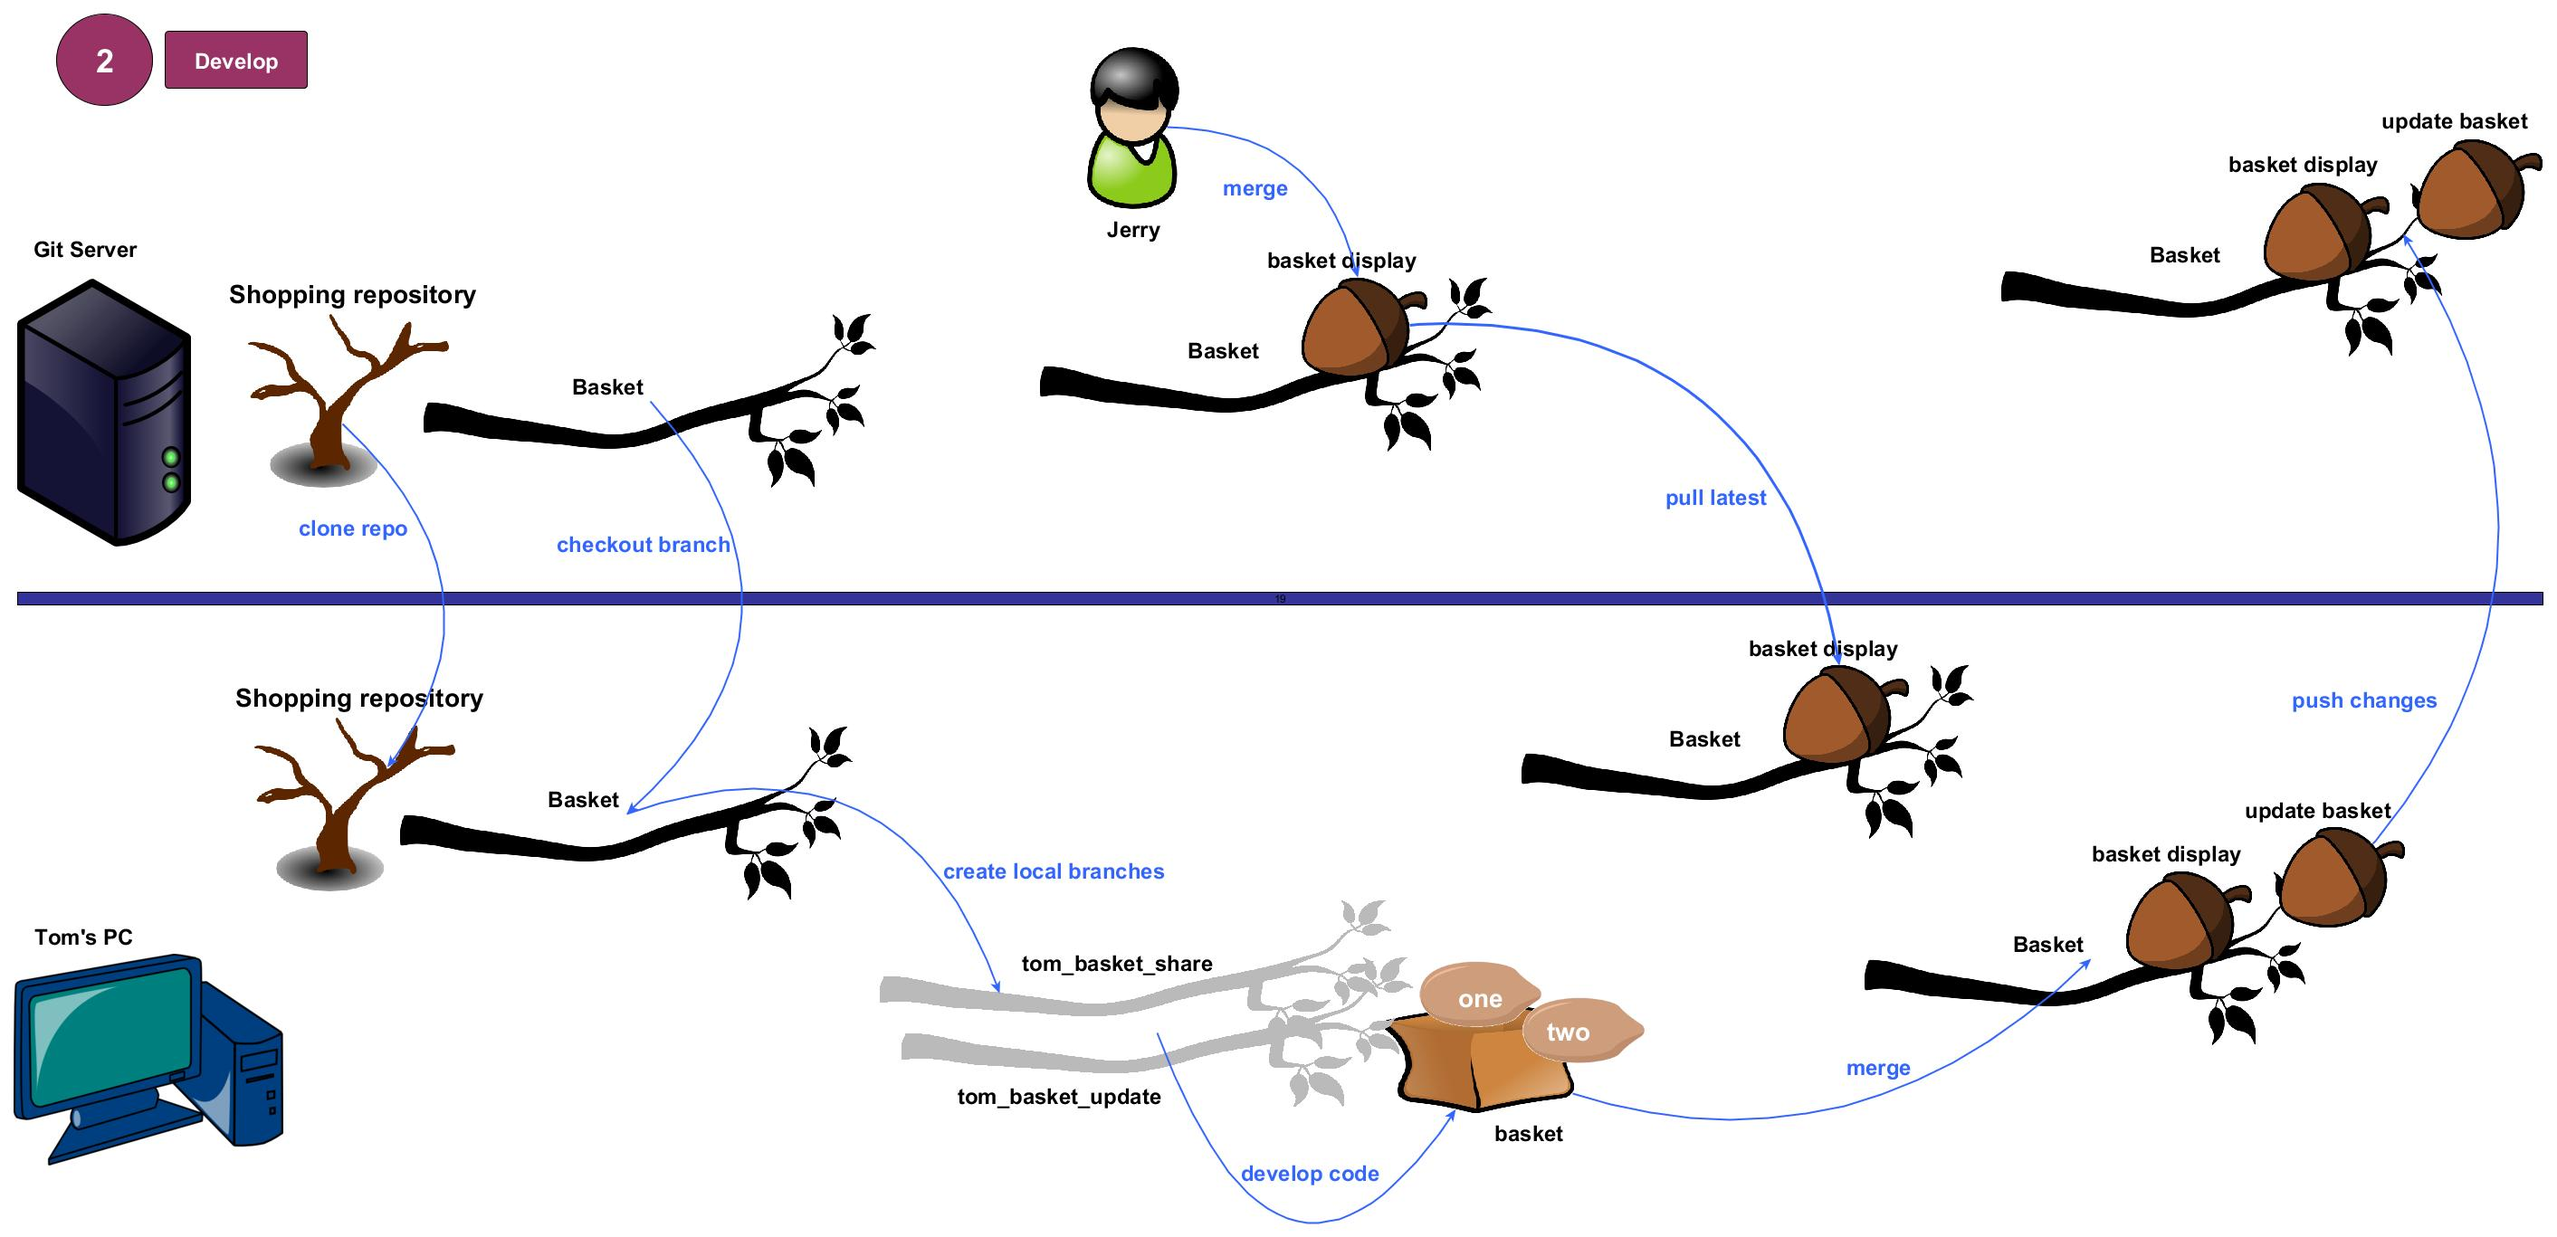
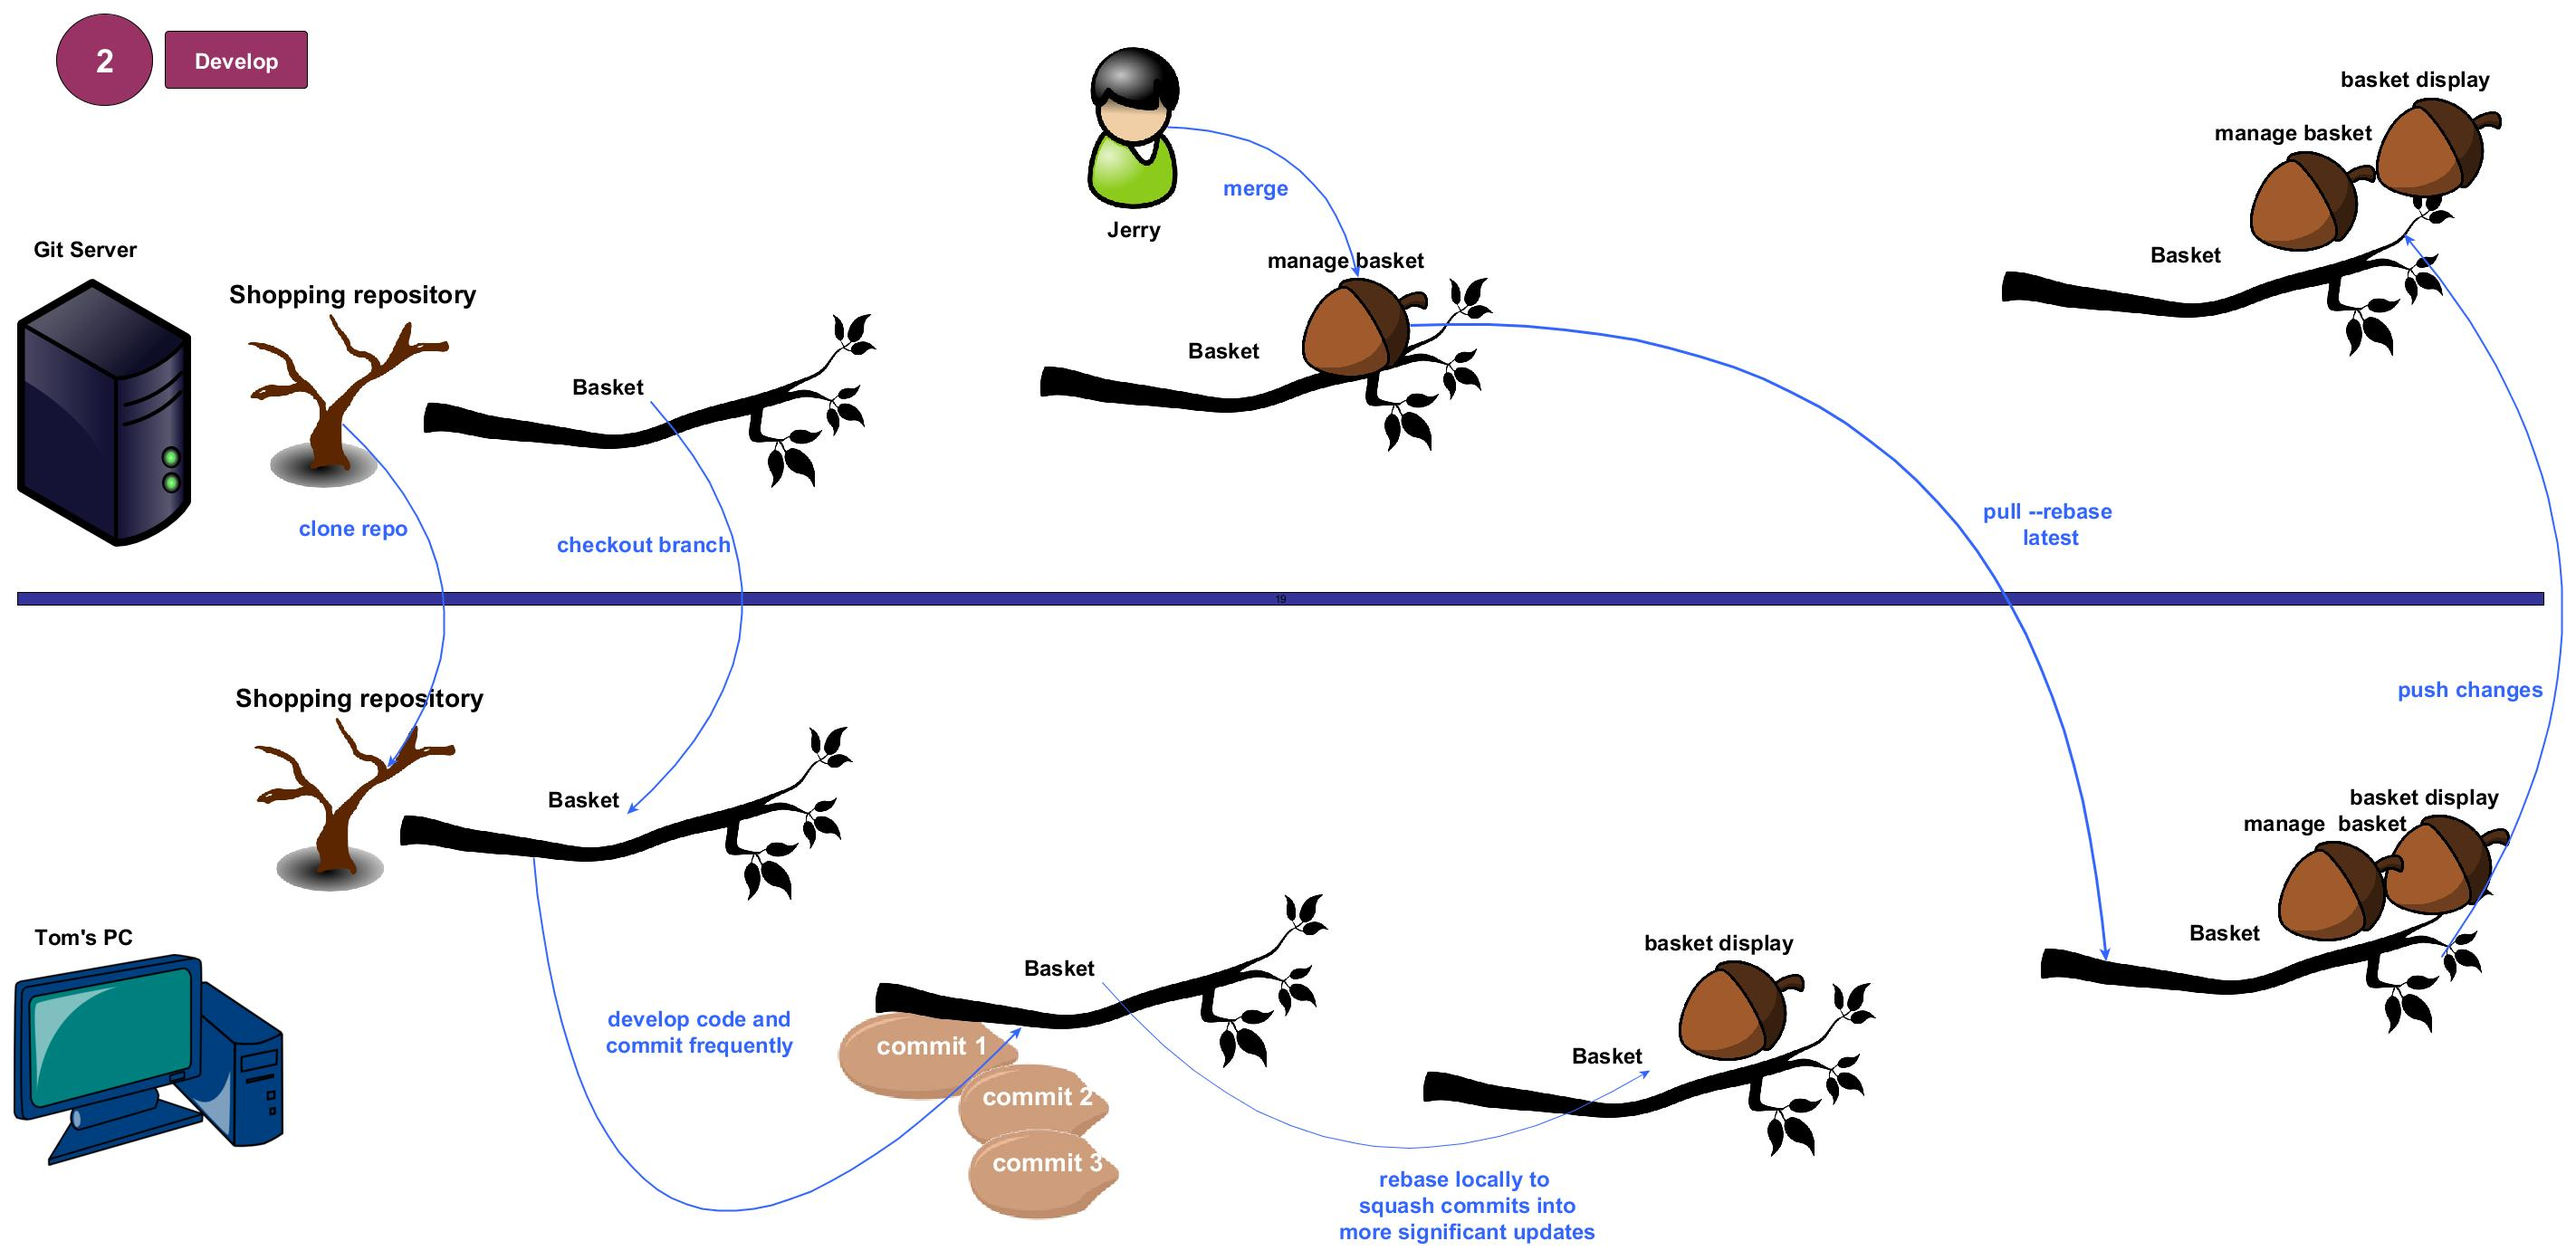
added rebasing commands

diff --git a/README.md b/README.md
@@ -33,11 +33,12 @@ The following commands are used during the workflow. Any word enclosed in bracke
 | git log                                                                    | local            | check the commit log        |
 | git log &lt;remote_repo&gt;/&lt;remote_branch&gt;                          | remote           | check remote commits        |
 | git diff origin/&lt;branch&gt;                                             | remote & local   | check for remote changes    |
-| git pull origin &lt;branch&gt;                                             | remote --> local | merge remote changes        |
+| git pull --rebase origin &lt;branch&gt;                                    | remote --> local | get the latest remote changes and apply mine on top  |
 | git push origin                                                            | local--> remote  | push my changes             | 
 | git tag -a &lt;release_name&gt; &lt;commit_hash&gt; -m &lt;tag_message&gt; | local            | tag a release               |
 | git push origin --tags                                                     | local --> remote | push tags to remote         |
 | git tag -l                                                                 | local            | list tags                   |
 | git reset --hard &lt;commit_hash&gt;                                       | remote --> local | rollback to previous commit |
+| git rebase -i HEAD~&lt;count_of_commits&gt;                                | local            | squash commits into a bigger update |
 
 
